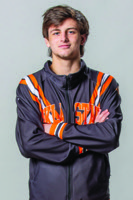
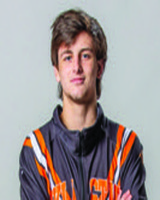
Crop Jax Forrest headshot to tight face framing, remove position overrides

diff --git a/index.html b/index.html
@@ -372,7 +372,7 @@ function renderCandidates() {
     const recordDisplay = c.record ? ` | ${c.record}` : '';
 
     const headshot = HEADSHOT_MAP[c.name] || '';
-    const posMap = {'Jax Forrest':'0 30%','Isaac Trumble':'0 15%','Luke Lilledahl':'0 25%'};
+    const posMap = {'Isaac Trumble':'0 15%','Luke Lilledahl':'0 25%'};
     const objPos = posMap[c.name] ? `object-position:${posMap[c.name]}` : '';
     div.innerHTML = `
       ${headshot ? `<img class="card-headshot" src="${headshot}" alt="${esc(c.name)}" style="${objPos}">` : `<div class="card-color" style="background:${c.color || '#888'}"></div>`}

diff --git a/tv.html b/tv.html
@@ -172,7 +172,7 @@ const HEADSHOT_MAP = {
   'Yonger Bastida': 'headshots/bastida.jpg',
   'Luke Lilledahl': 'headshots/lilledahl.jpg',
 };
-const HEADSHOT_POS = {'Jax Forrest':'0 40%','Isaac Trumble':'0 15%','Luke Lilledahl':'0 25%'};
+const HEADSHOT_POS = {'Isaac Trumble':'0 15%','Luke Lilledahl':'0 25%'};
 const WEIGHT_CLASS = {
   'Mitchell Mesenbrink': '149 lbs',
   'Josh Barr': '197 lbs',
